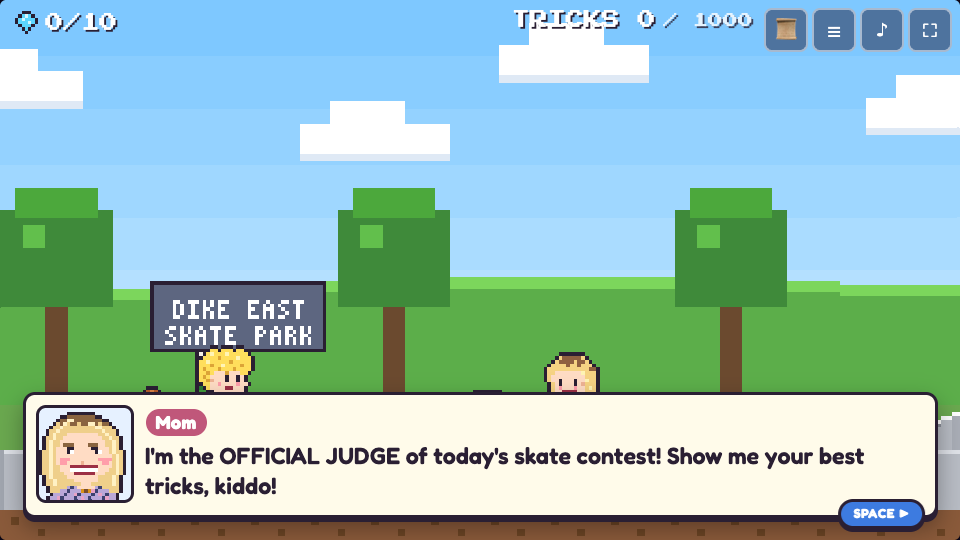
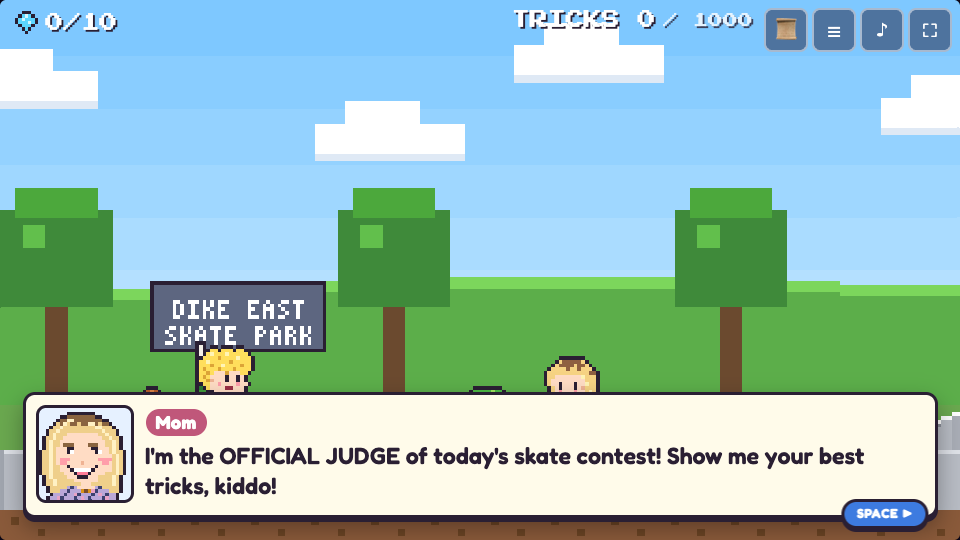
Portraits: clear, readable smiles for Mom, Isaac and Dad

diff --git a/js/sprites.js b/js/sprites.js
@@ -339,7 +339,7 @@ const P_ISAAC = [
   '.ySsskwkssssssskwkssSy.',
   '.ySsskkkssssssskkkssSy.',
   '..ssssssssssssssssssss.',
-  '..sppsssssssssssssppss.',
+  '..sppsksssssssssksppss.',
   '..sppssmmmmmmmmmsssppss',
   '...ssssmwwmwwwwmsssss..',
   '...sssssmmmmmmmsssss...',
@@ -365,10 +365,10 @@ const P_MOM = [
   'uuvussssssssssssssssuvu',
   'uuvuspppssssssssppppuvu',
   'uuvusppssssSsssssppsuvu',
-  'uuvuusssmmmmmmmmssssuvu',
-  'uuvuussswwwwwwwwsssuuvu',
-  'uuvuuusssmmmmmmsssuuuvu',
-  '.uvuuuusssssssssuuuuvu.',
+  'uuvuusskssssssskssssuvu',
+  'uuvuussskwwwwwksssssuvu',
+  'uuvuuusssktttkssssuuuvu',
+  '.uvuuuussskkksssuuuuvu.',
   '.uuvuuuuusssssssuuuuvu.',
   '.uuvuuuuuuusssuuuuuuvu.',
   '..uuuuuIHIsssssIHuuuuu.',
@@ -390,7 +390,7 @@ const P_DAD = [
   '.Sssskwkssssssskwkssss.',
   '..sssssssssSssssssssss.',
   '..sssssssssSSsssssssss.',
-  '..eEeesssssssssssseeEe.',
+  '..eEeeksssssssssssekEe.',
   '..eeeeemmmmmmmmmmmeeee.',
   '..eeEeemwwwwwwwwwmeeee.',
   '..eeeeeemwwwwwwwmeeEee.',
